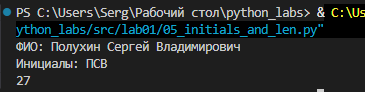
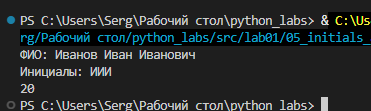
скрины переделал

diff --git a/src/lab02/arrays.py b/src/lab02/arrays.py
@@ -1,0 +1,25 @@
+def min_max(nums: list[float | int]) -> tuple[float | int, float | int]:
+    if not nums:
+        raise ValueError
+
+    return tuple([min(nums), max(nums)])
+
+def unique_sorted(nums: list[float | int]) -> list[float | int]:
+    set_nums = set(nums)
+    massive = list(set_nums)
+    massive.sort()
+    return massive
+
+def flatten(mat: list[list | tuple]) -> list:
+    massive = []
+
+    for row in mat:
+        if not isinstance(row, (list, tuple)):
+            raise TypeError
+
+        for elements in row:
+            massive.append(elements)
+
+    return massive
+
+

diff --git a/src/lab01/03_discount_vat.py b/src/lab01/03_discount_vat.py
@@ -1,0 +1,11 @@
+price = float(input())
+discount = float(input())
+vat = float(input())
+
+base = price * (1 - discount/100)
+vat_amount = base * (vat/100)
+total = base + vat_amount
+
+print(f"База после скидки: {base:.2f} ₽")
+print(f"НДС: {vat_amount:.2f} ₽")
+print(f"Итого к оплате: {total:.2f} ₽")

diff --git a/src/lab01/04_minutes_to_hhmm.py b/src/lab01/04_minutes_to_hhmm.py
@@ -1,0 +1,2 @@
+min = int(input("Минуты: "))
+print(f'{min // 60}:{min % 60:02d}')
